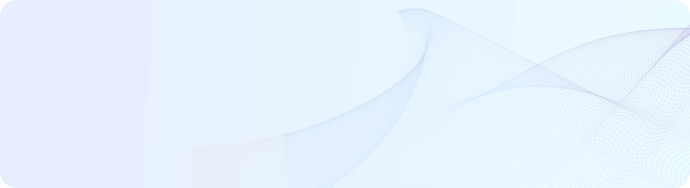
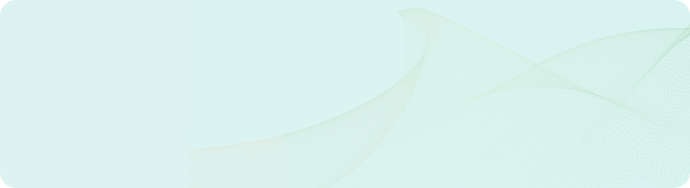
feat: chatgpt

diff --git a/src/pages/ai/index.vue b/src/pages/ai/index.vue
@@ -5,8 +5,8 @@
     <div class="main">
       <div class="introduce">
         <div class="introduce-title row">
-          <img class="logo" src="./images/youbo-logo.png" alt="" />
-          <div>您好，我是YouAi</div>
+          <img class="logo" src="./images/ruibo-logo.png" alt="" />
+          <div>您好，我是您的智能助手</div>
         </div>
         <div class="introduce-content">
           <div>能够学习和理解人类的语言，进行多轮对话</div>
@@ -15,16 +15,8 @@
       </div>
 
       <div class="btns row between">
-        <div class="btn row" @click="navToAssistantCenter">
-          <img class="icon" src="./images/robot-icon.png" alt="" />
-          <div class="desc">助手中心</div>
-          <img class="arrow" src="./images/arrow.png" alt="" />
-        </div>
-        <div class="btn row" @click="newChat">
-          <img class="icon" src="./images/contact-icon.png" alt="" />
-          <div class="desc">新建对话</div>
-          <img class="arrow" src="./images/arrow.png" alt="" />
-        </div>
+        <img class="btn" @click="navToAssistantCenter" src="./images/assistant-center-btn.png" alt="" >
+        <img class="btn" @click="newChat" src="./images/new-chat-btn.png" alt="" >
       </div>
 
       <div class="recommend-assistants card">
@@ -191,7 +183,7 @@ export default {
       background-size: 100%
       background-repeat: no-repeat
       .introduce-title
-        color: #0866F4
+        color: #05A5AF
         font-size: .28rem
         font-weight: 500
         .logo
@@ -202,26 +194,16 @@ export default {
         margin-top: .16rem
         color: #44446F
         font-size: .26rem
+        font-weight: 500
     .btns
       margin-top: .3rem
       .btn
-        padding-left: .3rem
-        padding-right: .12rem
         width: 3.36rem
-        height: .88rem
-        background: #5D7CFF
-        border-radius: .16rem
-        .icon, .arrow
-          margin-right: .08rem
-          width: .32rem
-          height: .32rem
-        .desc
-          flex: 1
-          color: #fff
-          font-size: .28rem
-          font-weight: 500
     .recommend-assistants
       margin-top: .34rem
+      background-image: url('./images/recommend-assistants-bg.png')
+      background-size: 100%
+      background-repeat: no-repeat
       .recommend-assistants-title
         color: #44446F
         font-size: .32rem

diff --git a/public/index.html b/public/index.html
@@ -7,7 +7,6 @@
     <link rel="icon" href="<%= BASE_URL %>favicon.ico">
     <link href="https://web.sdk.qcloud.com/player/tcplayer/release/v4.6.0/tcplayer.min.css" rel="stylesheet"/>
     <title></title>
-    <script src="./HWLLSPlayer.js"></script>
   </head>
   <body>
     <noscript>
@@ -15,6 +14,7 @@
     </noscript>
     <div id="app"></div>
     <!-- built files will be auto injected -->
+    <script src="./HWLLSPlayer.js"></script>
     <script src="https://res.wx.qq.com/open/js/jweixin-1.6.0.js"></script>
     <script src="https://web.sdk.qcloud.com/player/tcplayer/release/v4.6.0/libs/TXLivePlayer-1.2.3.min.js"></script>
     <script src="https://web.sdk.qcloud.com/player/tcplayer/release/v4.6.0/libs/hls.min.1.1.5.js"></script>

diff --git a/src/pages/ai/components/AssistantCard.vue b/src/pages/ai/components/AssistantCard.vue
@@ -114,6 +114,10 @@ export default {
   &.nomore
     width: 3.06rem
     height: 1.6rem
+    background: #F5FDFF
+    border-color: #DCEDFD
+    .card-content
+      color: #94B4C0
   .watermark
     position: absolute
     top: 50%
